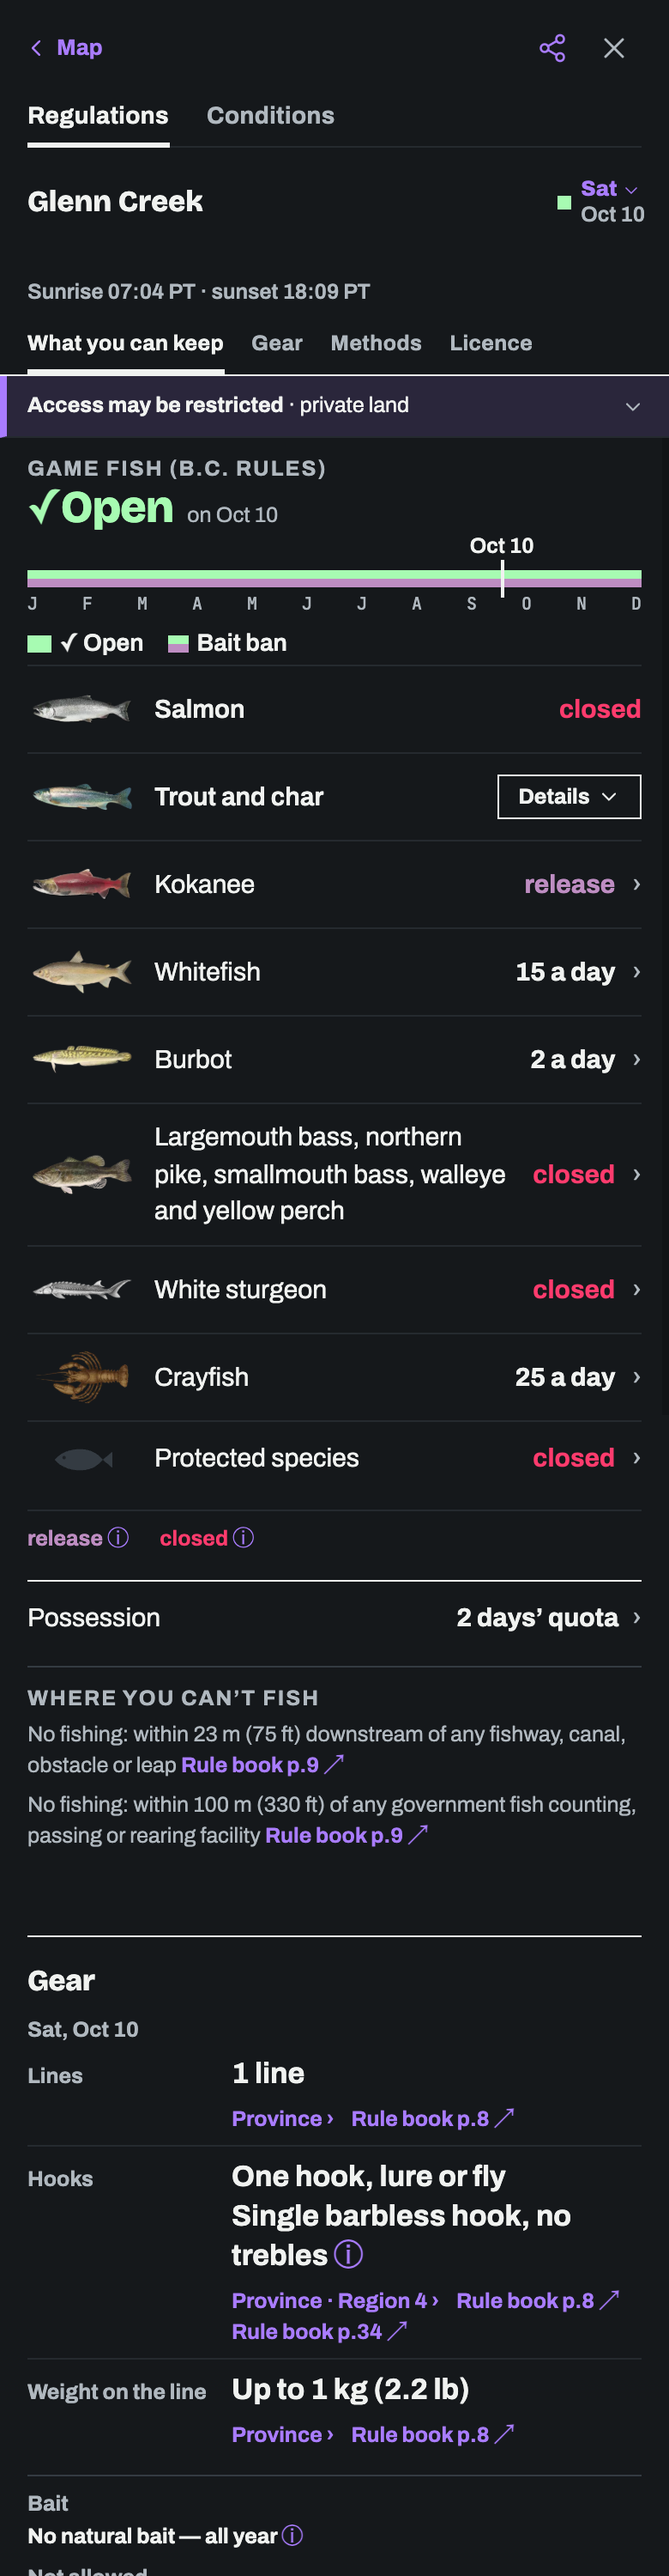
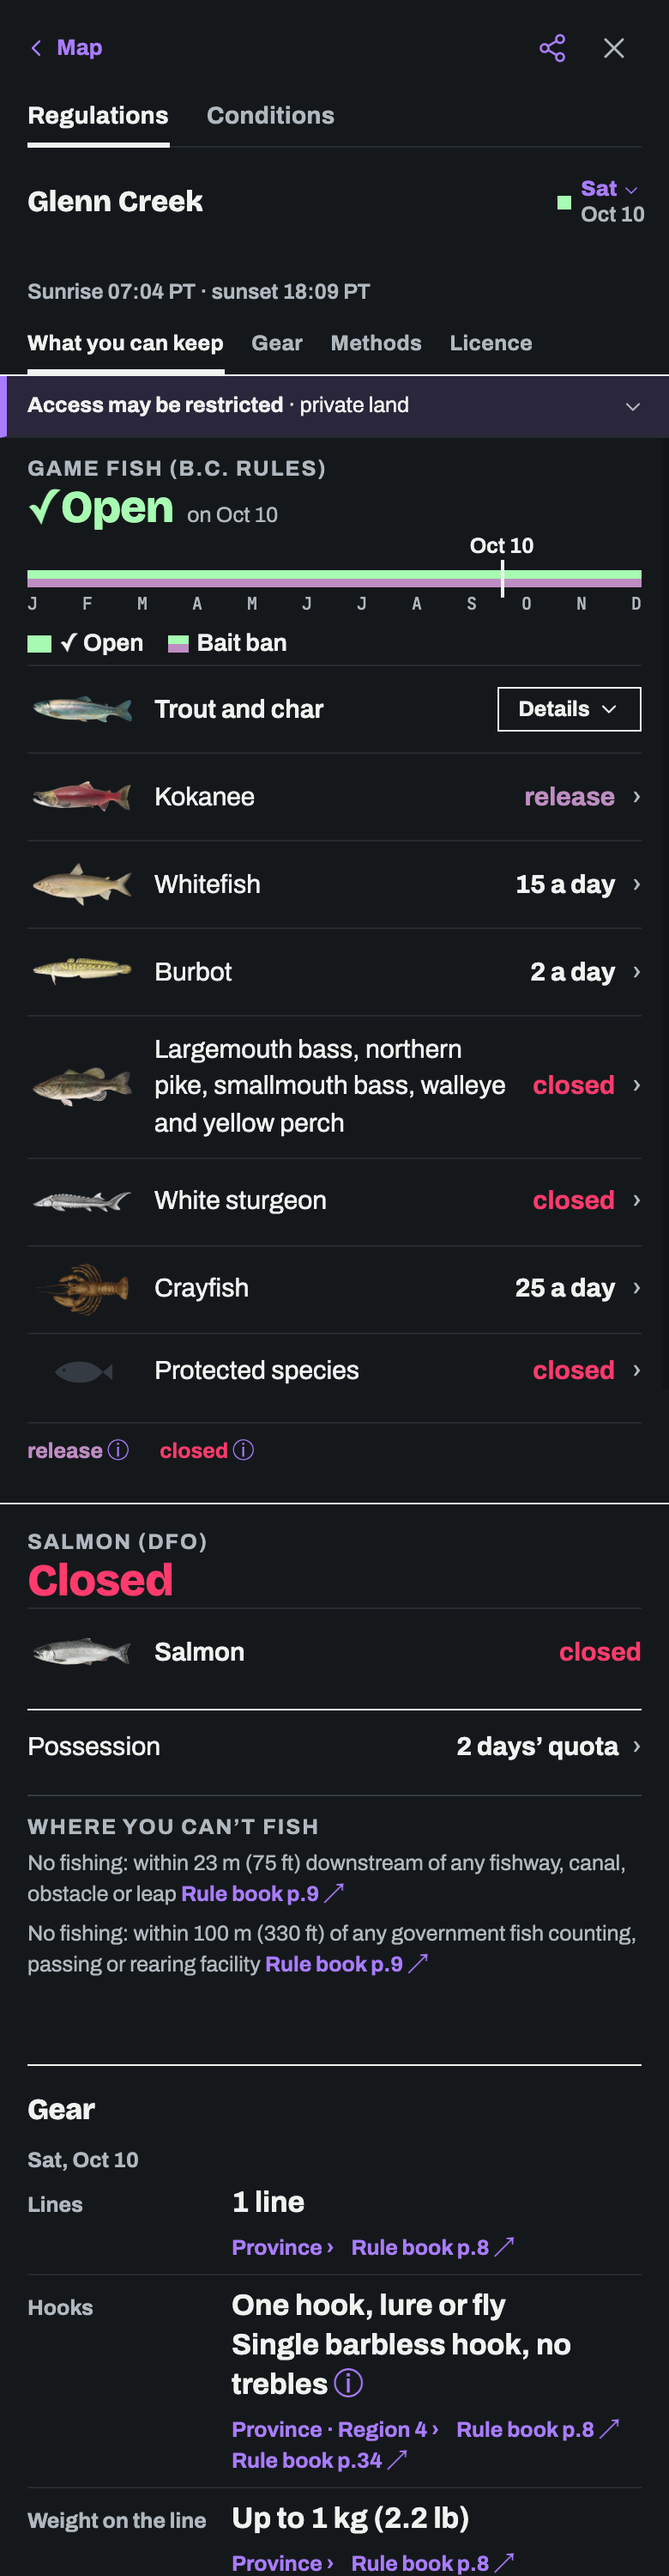
T531: a DFO row with no DFO calendar sits under its own Salmon (DFO) block; strict grouping test; 0.7.2 + changelog

diff --git a/app/packages/ui-native/src/regs/KeepTab.tsx b/app/packages/ui-native/src/regs/KeepTab.tsx
@@ -16,8 +16,10 @@
  */
 import type { ReactNode } from "react";
 import { View } from "react-native";
-import { daylightOffsets, groupGlance, speciesBlocks, SALMON_WORDS, WORDS, type GlanceRowVM, type InSeasonBannerVM, type KeepVM, type SalmonStripVM } from "@app/core";
-import type { Palette } from "../theme";
+import { daylightOffsets, groupGlance, speciesBlocks, dfoBlockStatus, SALMON_WORDS, WORDS, type GlanceRowVM, type InSeasonBannerVM, type KeepVM, type SalmonStripVM } from "@app/core";
+import { GUTTER, type Palette } from "../theme";
+import { Text } from "../Text";
+import { TYPE } from "../type";
 import { ClosedBanner, CaveatBlock, TimedLines, InheritedLine, OtherFish, SpeciesRows, OutsideFoot, PossessionRow, WhereNot, type GlanceFold } from "./KeepBlocks";
 import { InSeasonBanners } from "./InSeasonBanner";
 import { GroupCard } from "./GroupCard";
@@ -45,7 +47,7 @@ export function KeepTab({ keep, dateLabel, palette, actions, images, glance = nu
     }] : []),
   ];
   const home = !!(glance && keep.strip && keep.order.includes("strip"));   // a game-fish calendar to hang the B.C. species under
-  const salmonHome = !!(glance && salmonStrip && glance.salmon);           // a salmon calendar to hang the DFO row under
+  const salmonHome = !!(glance && glance.salmon);   // a DFO block (with or without a calendar) to hang the DFO row under
   const split = speciesBlocks(folds, salmonHome);
   const at = keep.order.findIndex((b) => b === "otherFish" || (typeof b === "object" && "group" in b));
   // (T293) the walkthrough's "what you can keep" points at the species table
@@ -72,12 +74,23 @@ export function KeepTab({ keep, dateLabel, palette, actions, images, glance = nu
       <SpeciesRows rows={keep.otherFish ?? []} keys={keep.otherFishKey} palette={palette} actions={actions} images={images} folds={split.rest} />
     </CoachSpot>
   );
-  const salmonBar = salmonStrip && (
+  // (T531) a DFO row with no DFO calendar still sits under its own heading and status, just no bar or legend
+  const dfoRows = salmonHome && split.dfo.length > 0 && <SpeciesRows rows={[]} keys={[]} palette={palette} actions={actions} images={images} folds={split.dfo} />;
+  const bareStatus = glance?.salmon ? dfoBlockStatus(glance.salmon.row) : null;
+  const salmonBar = (salmonStrip || salmonHome) && (
     <View key="salmon-block" testID="salmon-block"
           style={keep.strip && glance ? { marginTop: 14, paddingTop: 4, borderTopWidth: 1.5, borderTopColor: palette.ink } : undefined}>
-      <SalmonYearStrip strip={salmonStrip} todayAt={keep.strip?.todayAt ?? 0} months={keep.strip?.months ?? []}
-                       dateLabel={dateLabel} palette={palette} />
-      {salmonHome && split.dfo.length > 0 && <SpeciesRows rows={[]} keys={[]} palette={palette} actions={actions} images={images} folds={split.dfo} />}
+      {salmonStrip ? (
+        <SalmonYearStrip strip={salmonStrip} todayAt={keep.strip?.todayAt ?? 0} months={keep.strip?.months ?? []}
+                         dateLabel={dateLabel} palette={palette} />
+      ) : (
+        <View testID="salmon-bare" style={{ paddingTop: 10, paddingHorizontal: GUTTER, paddingBottom: 2 }}>
+          <Text testID="salmon-strip-title" accessibilityRole="header" style={[TYPE.kicker, { color: palette.sub, marginBottom: 2 }]}>{SALMON_WORDS.barSalmon}</Text>
+          {bareStatus && <Text testID={`salmon-bare-st:${glance!.salmon!.row.tone}`}
+            style={[TYPE.answer, { color: glance!.salmon!.row.tone === "closed" ? palette.closed : glance!.salmon!.row.tone === "release" ? palette.restricted : palette.ink }]}>{bareStatus}</Text>}
+        </View>
+      )}
+      {dfoRows}
     </View>
   );
   return (

diff --git a/app/packages/ui-native/src/regs/KeepTab.test.tsx b/app/packages/ui-native/src/regs/KeepTab.test.tsx
@@ -12,6 +12,9 @@ import type { KeepActions } from "./LineText";
 import vedder1010 from "./fixtures/vedder_1010.json";
 import vedder615 from "./fixtures/vedder_615.json";
 import glenn501 from "./fixtures/glenn_501.json";
+import klwa1010 from "./fixtures/klwa_1010.json";
+import bc1501 from "./fixtures/bc1_501.json";
+import x35p1010 from "./fixtures/x35p_1010.json";
 
 afterEach(cleanup);
 
@@ -177,6 +180,32 @@ describe("(T531, owner 2026-11-09) each calendar owns its species", () => {
     fireEvent.click(screen.getByText("Kokanee"));
     fireEvent.click(screen.getByTestId("keep-possession"));
     expect(sheets.length).toBe(2);
+  });
+
+  it("STRICT: across the fixture waters, every DFO row sits under the Salmon (DFO) heading — with a DFO calendar and without one (Glenn Creek)", () => {
+    const closed = { source: "dfo", thumb: "CO", name: SALMON_WORDS.title, value: "closed", tone: "closed", fold: false } as const;
+    for (const [fx, strip] of [[vedder1010, STRIP], [glenn501, null], [glenn501, STRIP], [klwa1010, null], [bc1501, null], [x35p1010, null]] as const) {
+      for (const sal of [salmon, { row: closed, card: () => <span>x</span> }] as const) {
+        const r = render(<KeepTab keep={keepOf(fx)} dateLabel="Oct 10" palette={LIGHT} actions={actions} salmonStrip={strip as never} glance={{ salmon: sal as never }} />);
+        const block = within(group(r)).getByTestId("salmon-block");
+        expect(within(block).getByTestId("salmon-strip-title").textContent).toBe("Salmon (DFO)");
+        expect(within(block).getAllByTestId("glance:salmon")).toHaveLength(1);
+        expect(group(r).querySelectorAll("[data-testid='glance:salmon']")).toHaveLength(1);          // and nowhere else
+        const bc = group(r).querySelector("[data-testid='keep-strip']")?.nextElementSibling;
+        if (bc) expect(within(bc as HTMLElement).queryByTestId("glance:salmon")).toBeNull();           // never under the B.C. block
+        if (!strip) expect(within(block).queryByTestId("salmon-strip-bar")).toBeNull();                // no calendar: no bar, no legend
+        cleanup();
+      }
+    }
+  });
+
+  it("no DFO calendar: the Salmon (DFO) block says its status ('Closed') under its heading, after the B.C. block", () => {
+    const closed = { source: "dfo", thumb: "CO", name: SALMON_WORDS.title, value: "closed", tone: "closed", fold: false } as const;
+    const r = render(<KeepTab keep={keepOf(glenn501)} dateLabel="Oct 10" palette={LIGHT} actions={actions}
+                              glance={{ salmon: { row: closed, card: () => <span>x</span> } }} />);
+    expect(screen.getByTestId("salmon-bare-st:closed").textContent).toBe("Closed");
+    const ids = [...group(r).querySelectorAll("[data-testid='keep-strip'],[data-testid='salmon-block']")].map((e) => e.getAttribute("data-testid"));
+    expect(ids).toEqual(["keep-strip", "salmon-block"]);
   });
 
   it("the legend is plain ink words with the first letter capital: '✓ Open', 'Fly fishing only'", () => {

diff --git a/app/packages/core/src/glance.ts b/app/packages/core/src/glance.ts
@@ -75,3 +75,8 @@ export function speciesBlocks<T extends { readonly row: GlanceRowVM }>(rows: rea
   const dfo = rows.filter((x) => dfoBlock && x.row.source === "dfo");
   return { dfo, rest: rows.filter((x) => !dfo.includes(x)) };
 }
+
+/** (T531) The status a DFO block says when it has no year bar (a salmon row with no DFO calendar): the row's word, capital first; null: none. */
+export function dfoBlockStatus(row: GlanceRowVM): string | null {
+  return row.value ? row.value.charAt(0).toUpperCase() + row.value.slice(1) : null;
+}

diff --git a/app/packages/core/src/changelog.ts b/app/packages/core/src/changelog.ts
@@ -21,6 +21,12 @@ export interface ChangelogEntry {
 
 export const CHANGELOG: readonly ChangelogEntry[] = [
   {
+    version: "0.7.2", date: "2026-11-09", notes: [
+      "Each calendar sits with its own fish: salmon under DFO, the rest under B.C. rules",
+      "Calendar legends are easier to read",
+    ],
+  },
+  {
     version: "0.7.1", date: "2026-11-09", notes: [
       "Share a river's flow from Conditions: the link opens a live page for that gauge",
     ],

diff --git a/handoff/PLAN/app-integration/tickets/T531-species-under-their-calendar.md b/handoff/PLAN/app-integration/tickets/T531-species-under-their-calendar.md
@@ -37,3 +37,4 @@ Species go under a block by the source of the rule that governs them (DFO rule -
   words); `salmon.test.ts` legend words and the glance row's `source` updated. No assertion removed.
 - Shots (web, 390 px, light + dark): `shots/T531-built-vedder-{light,dark}.png`, `shots/T531-built-single-{light,dark}.png`.
 - Owner: phone look on 0.7.2.
+- Follow-up (main, 11-09): a DFO row with no DFO calendar (Glenn Creek) now sits under its own "Salmon (DFO)" heading and status ("Closed"), no bar or legend, after the B.C. block; the grouping test is strict across fixture waters. Versions 0.7.2, changelog entry added.
